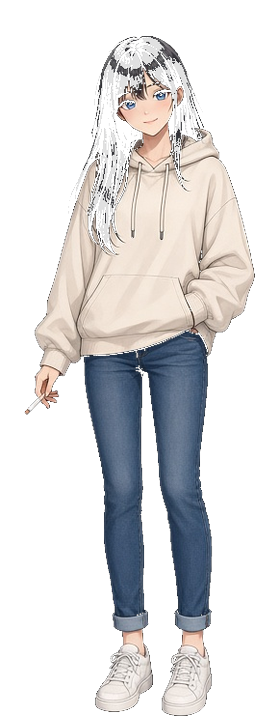
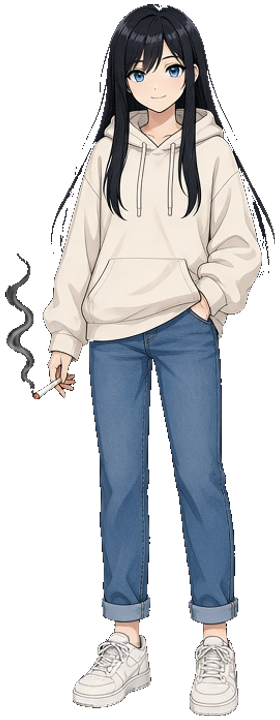
v1.4.22 Date Face holds: one A for idle/beer/coffee/cig
Add front-facing beer and coffee holds, refresh idle and cigarette Face
bodies from the dock Face canon, and stop forcing Away on Face buys.

diff --git a/src/ui/app.ts b/src/ui/app.ts
@@ -284,10 +284,10 @@ function seatRelLabel(i: number): string {
 }
 
 function playerAvatarSrc(): string {
-  return getAFace() === "camera" ? "avatars/player-face.png?v=face6" : "avatars/player.png?v=a1";
+  return getAFace() === "camera" ? "avatars/player-face.png?v=face7" : "avatars/player.png?v=a1";
 }
 
-const HOLD_POSE_V = "hold3";
+const HOLD_POSE_V = "hold4";
 
 function playerFullSrc(prop?: ShopPropId | null): string {
   const face = getAFace() === "camera";
@@ -296,10 +296,17 @@ function playerFullSrc(prop?: ShopPropId | null): string {
       ? `chars/player-hold-cigarette-face.png?v=${HOLD_POSE_V}`
       : `chars/player-hold-cigarette.png?v=${HOLD_POSE_V}`;
   }
-  // Beer/coffee still only have back-facing holds; face toggle returns after put-down.
-  if (prop === "beer") return `chars/player-hold-beer.png?v=${HOLD_POSE_V}`;
-  if (prop === "coffee") return `chars/player-hold-coffee.png?v=${HOLD_POSE_V}`;
-  return face ? "chars/player-face.png?v=face6" : "chars/player-full.png?v=cut3";
+  if (prop === "beer") {
+    return face
+      ? `chars/player-hold-beer-face.png?v=${HOLD_POSE_V}`
+      : `chars/player-hold-beer.png?v=${HOLD_POSE_V}`;
+  }
+  if (prop === "coffee") {
+    return face
+      ? `chars/player-hold-coffee-face.png?v=${HOLD_POSE_V}`
+      : `chars/player-hold-coffee.png?v=${HOLD_POSE_V}`;
+  }
+  return face ? `chars/player-face.png?v=${HOLD_POSE_V}` : "chars/player-full.png?v=cut3";
 }
 
 function oppositeFullSrc(prop?: ShopPropId | null): string {

diff --git a/public/sw.js b/public/sw.js
@@ -1,5 +1,5 @@
 /* AA Mahjong asset cache — Cache API, not localStorage */
-const CACHE = "aa-mahjong-assets-1.4.21";
+const CACHE = "aa-mahjong-assets-1.4.22";
 const PRECACHE = [
   "avatars/left.png",
   "avatars/opposite.png",

diff --git a/src/version.ts b/src/version.ts
@@ -1,2 +1,2 @@
 /** Single app version — keep in sync with package.json, VERSION, public/sw.js CACHE. */
-export const APP_VERSION = "1.4.21";
+export const APP_VERSION = "1.4.22";
